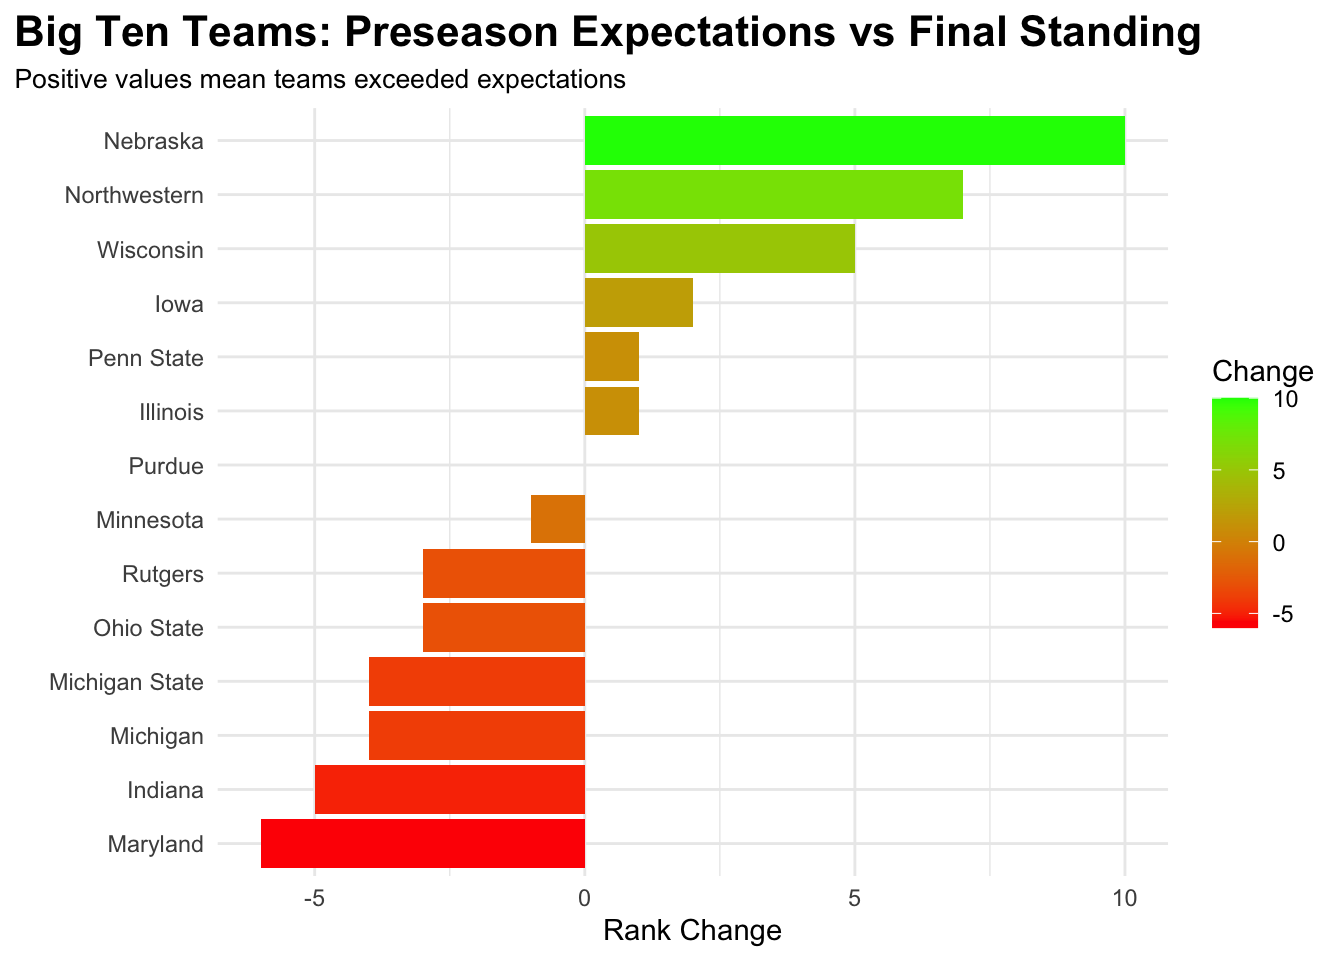
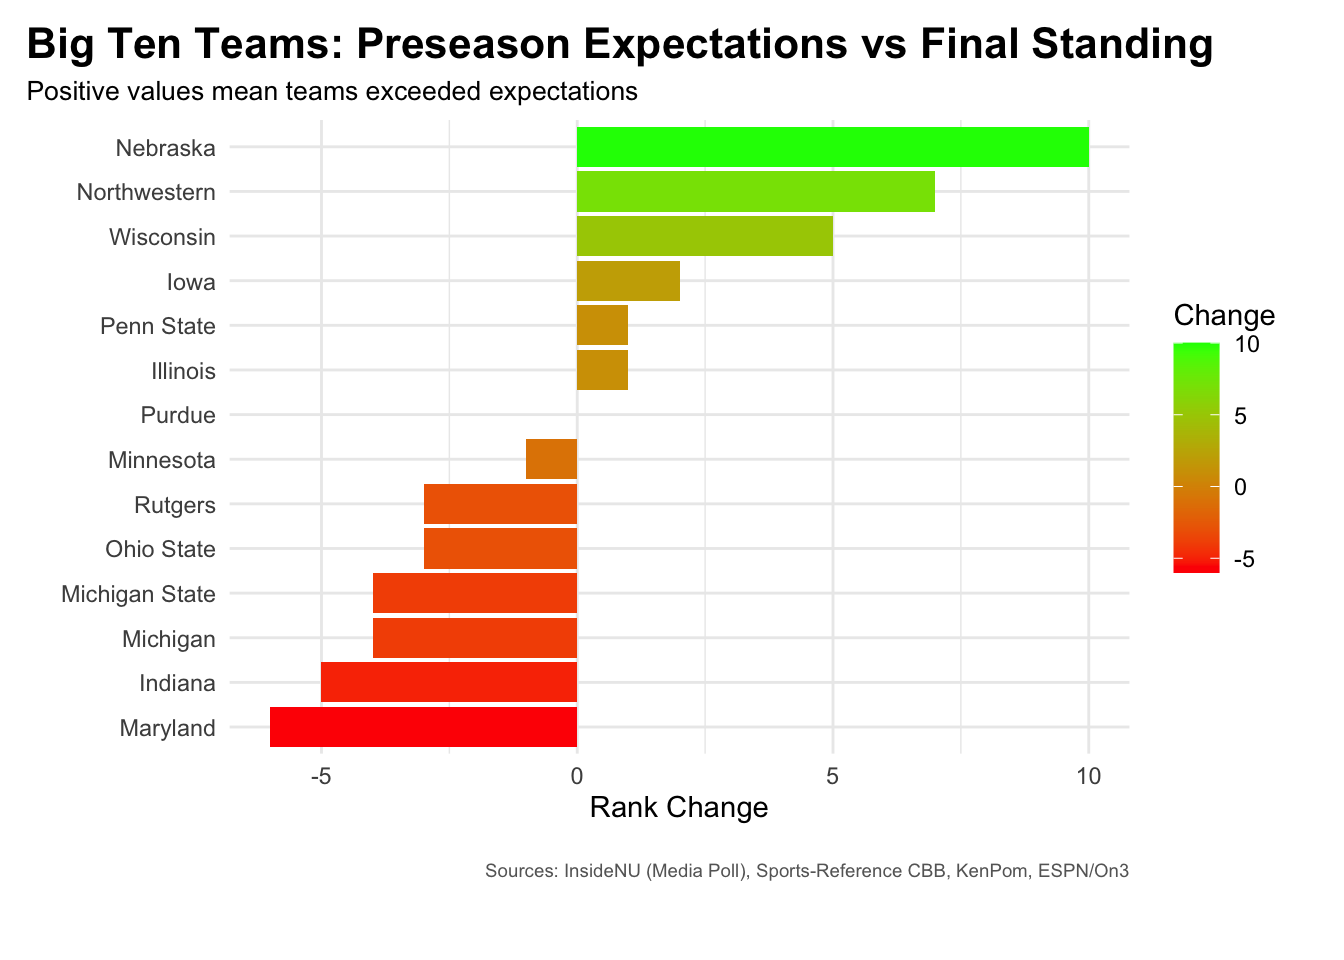
updated changes

Changed region(s): [[0.0, 0.0, 0.9688, 1.0], [0.0625, 0.875, 0.1562, 0.9062], [0.0938, 0.8125, 0.1562, 0.8438]]

diff --git a/posts/nebraska-mens-basketball-national-title/index.html b/posts/nebraska-mens-basketball-national-title/index.html
@@ -257,14 +257,22 @@ pre > code.sourceCode > span > a:first-child::before { text-decoration: underlin
 <span id="cb2-11"><a href="#cb2-11" aria-hidden="true" tabindex="-1"></a>    <span class="at">subtitle =</span> <span class="st">"Positive values mean teams exceeded expectations"</span>,</span>
 <span id="cb2-12"><a href="#cb2-12" aria-hidden="true" tabindex="-1"></a>    <span class="at">x =</span> <span class="st">""</span>,</span>
 <span id="cb2-13"><a href="#cb2-13" aria-hidden="true" tabindex="-1"></a>    <span class="at">y =</span> <span class="st">"Rank Change"</span>,</span>
-<span id="cb2-14"><a href="#cb2-14" aria-hidden="true" tabindex="-1"></a>    <span class="at">fill =</span> <span class="st">"Change"</span></span>
-<span id="cb2-15"><a href="#cb2-15" aria-hidden="true" tabindex="-1"></a>  ) <span class="sc">+</span></span>
-<span id="cb2-16"><a href="#cb2-16" aria-hidden="true" tabindex="-1"></a>  <span class="fu">theme_minimal</span>() <span class="sc">+</span></span>
-<span id="cb2-17"><a href="#cb2-17" aria-hidden="true" tabindex="-1"></a>  <span class="fu">theme</span>(</span>
-<span id="cb2-18"><a href="#cb2-18" aria-hidden="true" tabindex="-1"></a>    <span class="at">plot.title.position =</span> <span class="st">"plot"</span>,</span>
-<span id="cb2-19"><a href="#cb2-19" aria-hidden="true" tabindex="-1"></a>    <span class="at">plot.title =</span> <span class="fu">element_text</span>(<span class="at">face =</span> <span class="st">"bold"</span>, <span class="at">size =</span> <span class="dv">16</span>, <span class="at">hjust =</span> <span class="dv">0</span>),</span>
-<span id="cb2-20"><a href="#cb2-20" aria-hidden="true" tabindex="-1"></a>    <span class="at">plot.subtitle =</span> <span class="fu">element_text</span>(<span class="at">face =</span> <span class="st">"plain"</span>, <span class="at">size =</span> <span class="dv">10</span>, <span class="at">hjust =</span> <span class="dv">0</span>)</span>
-<span id="cb2-21"><a href="#cb2-21" aria-hidden="true" tabindex="-1"></a>  )</span></code></pre></div><button title="Copy to Clipboard" class="code-copy-button"><i class="bi"></i></button></div>
+<span id="cb2-14"><a href="#cb2-14" aria-hidden="true" tabindex="-1"></a>    <span class="at">fill =</span> <span class="st">"Change"</span>,</span>
+<span id="cb2-15"><a href="#cb2-15" aria-hidden="true" tabindex="-1"></a>    <span class="at">caption =</span> <span class="st">"Sources: InsideNU (Media Poll), Sports-Reference CBB, KenPom, ESPN/On3"</span></span>
+<span id="cb2-16"><a href="#cb2-16" aria-hidden="true" tabindex="-1"></a>  ) <span class="sc">+</span></span>
+<span id="cb2-17"><a href="#cb2-17" aria-hidden="true" tabindex="-1"></a>  <span class="fu">theme_minimal</span>() <span class="sc">+</span></span>
+<span id="cb2-18"><a href="#cb2-18" aria-hidden="true" tabindex="-1"></a>  <span class="fu">theme</span>(</span>
+<span id="cb2-19"><a href="#cb2-19" aria-hidden="true" tabindex="-1"></a>    <span class="at">plot.title.position =</span> <span class="st">"plot"</span>,</span>
+<span id="cb2-20"><a href="#cb2-20" aria-hidden="true" tabindex="-1"></a>    <span class="at">plot.title =</span> <span class="fu">element_text</span>(<span class="at">face =</span> <span class="st">"bold"</span>, <span class="at">size =</span> <span class="dv">16</span>, <span class="at">hjust =</span> <span class="dv">0</span>),</span>
+<span id="cb2-21"><a href="#cb2-21" aria-hidden="true" tabindex="-1"></a>    <span class="at">plot.subtitle =</span> <span class="fu">element_text</span>(<span class="at">size =</span> <span class="dv">10</span>, <span class="at">hjust =</span> <span class="dv">0</span>),</span>
+<span id="cb2-22"><a href="#cb2-22" aria-hidden="true" tabindex="-1"></a>    <span class="at">plot.caption =</span> <span class="fu">element_text</span>(</span>
+<span id="cb2-23"><a href="#cb2-23" aria-hidden="true" tabindex="-1"></a>      <span class="at">size =</span> <span class="dv">7</span>,</span>
+<span id="cb2-24"><a href="#cb2-24" aria-hidden="true" tabindex="-1"></a>      <span class="at">hjust =</span> <span class="dv">1</span>,</span>
+<span id="cb2-25"><a href="#cb2-25" aria-hidden="true" tabindex="-1"></a>      <span class="at">color =</span> <span class="st">"gray40"</span>,</span>
+<span id="cb2-26"><a href="#cb2-26" aria-hidden="true" tabindex="-1"></a>      <span class="at">margin =</span> <span class="fu">margin</span>(<span class="at">t =</span> <span class="dv">15</span>)</span>
+<span id="cb2-27"><a href="#cb2-27" aria-hidden="true" tabindex="-1"></a>    ),</span>
+<span id="cb2-28"><a href="#cb2-28" aria-hidden="true" tabindex="-1"></a>    <span class="at">plot.margin =</span> <span class="fu">margin</span>(<span class="dv">10</span>, <span class="dv">20</span>, <span class="dv">30</span>, <span class="dv">10</span>)</span>
+<span id="cb2-29"><a href="#cb2-29" aria-hidden="true" tabindex="-1"></a>  ) </span></code></pre></div><button title="Copy to Clipboard" class="code-copy-button"><i class="bi"></i></button></div>
 </details>
 <div class="cell-output-display">
 <div>
@@ -294,14 +302,21 @@ pre > code.sourceCode > span > a:first-child::before { text-decoration: underlin
 <span id="cb3-12"><a href="#cb3-12" aria-hidden="true" tabindex="-1"></a>    <span class="at">subtitle =</span> <span class="st">"Nebraska stands out compared to the rest of the conference"</span>,</span>
 <span id="cb3-13"><a href="#cb3-13" aria-hidden="true" tabindex="-1"></a>    <span class="at">x =</span> <span class="st">"Offensive Rating"</span>,</span>
 <span id="cb3-14"><a href="#cb3-14" aria-hidden="true" tabindex="-1"></a>    <span class="at">y =</span> <span class="st">"Win Percentage"</span>,</span>
-<span id="cb3-15"><a href="#cb3-15" aria-hidden="true" tabindex="-1"></a>    <span class="at">color =</span> <span class="st">"Nebraska?"</span></span>
-<span id="cb3-16"><a href="#cb3-16" aria-hidden="true" tabindex="-1"></a>  ) <span class="sc">+</span></span>
-<span id="cb3-17"><a href="#cb3-17" aria-hidden="true" tabindex="-1"></a>  <span class="fu">theme_minimal</span>() <span class="sc">+</span></span>
-<span id="cb3-18"><a href="#cb3-18" aria-hidden="true" tabindex="-1"></a>  <span class="fu">theme</span>(</span>
-<span id="cb3-19"><a href="#cb3-19" aria-hidden="true" tabindex="-1"></a>    <span class="at">plot.title.position =</span> <span class="st">"plot"</span>,   <span class="co"># valid</span></span>
-<span id="cb3-20"><a href="#cb3-20" aria-hidden="true" tabindex="-1"></a>    <span class="at">plot.title =</span> <span class="fu">element_text</span>(<span class="at">face =</span> <span class="st">"bold"</span>, <span class="at">size =</span> <span class="dv">16</span>, <span class="at">hjust =</span> <span class="dv">0</span>),</span>
-<span id="cb3-21"><a href="#cb3-21" aria-hidden="true" tabindex="-1"></a>    <span class="at">plot.subtitle =</span> <span class="fu">element_text</span>(<span class="at">face =</span> <span class="st">"plain"</span>, <span class="at">size =</span> <span class="dv">10</span>, <span class="at">hjust =</span> <span class="dv">0</span>)  <span class="co"># aligns subtitle left</span></span>
-<span id="cb3-22"><a href="#cb3-22" aria-hidden="true" tabindex="-1"></a>  ) </span></code></pre></div><button title="Copy to Clipboard" class="code-copy-button"><i class="bi"></i></button></div>
+<span id="cb3-15"><a href="#cb3-15" aria-hidden="true" tabindex="-1"></a>    <span class="at">color =</span> <span class="st">"Nebraska?"</span>,</span>
+<span id="cb3-16"><a href="#cb3-16" aria-hidden="true" tabindex="-1"></a>    <span class="at">caption =</span> <span class="st">"Sources: Sports-Reference CBB, KenPom, ESPN Team Pages"</span></span>
+<span id="cb3-17"><a href="#cb3-17" aria-hidden="true" tabindex="-1"></a>  ) <span class="sc">+</span></span>
+<span id="cb3-18"><a href="#cb3-18" aria-hidden="true" tabindex="-1"></a>  <span class="fu">theme_minimal</span>() <span class="sc">+</span></span>
+<span id="cb3-19"><a href="#cb3-19" aria-hidden="true" tabindex="-1"></a>  <span class="fu">theme</span>(</span>
+<span id="cb3-20"><a href="#cb3-20" aria-hidden="true" tabindex="-1"></a>    <span class="at">plot.title.position =</span> <span class="st">"plot"</span>,</span>
+<span id="cb3-21"><a href="#cb3-21" aria-hidden="true" tabindex="-1"></a>    <span class="at">plot.title =</span> <span class="fu">element_text</span>(<span class="at">face =</span> <span class="st">"bold"</span>, <span class="at">size =</span> <span class="dv">16</span>, <span class="at">hjust =</span> <span class="dv">0</span>),</span>
+<span id="cb3-22"><a href="#cb3-22" aria-hidden="true" tabindex="-1"></a>    <span class="at">plot.subtitle =</span> <span class="fu">element_text</span>(<span class="at">face =</span> <span class="st">"plain"</span>, <span class="at">size =</span> <span class="dv">10</span>, <span class="at">hjust =</span> <span class="dv">0</span>),</span>
+<span id="cb3-23"><a href="#cb3-23" aria-hidden="true" tabindex="-1"></a>    <span class="at">plot.caption =</span> <span class="fu">element_text</span>(</span>
+<span id="cb3-24"><a href="#cb3-24" aria-hidden="true" tabindex="-1"></a>      <span class="at">size =</span> <span class="dv">7</span>,</span>
+<span id="cb3-25"><a href="#cb3-25" aria-hidden="true" tabindex="-1"></a>      <span class="at">hjust =</span> <span class="dv">1</span>,</span>
+<span id="cb3-26"><a href="#cb3-26" aria-hidden="true" tabindex="-1"></a>      <span class="at">color =</span> <span class="st">"gray40"</span>,</span>
+<span id="cb3-27"><a href="#cb3-27" aria-hidden="true" tabindex="-1"></a>      <span class="at">margin =</span> <span class="fu">margin</span>(<span class="at">t =</span> <span class="dv">15</span>)   <span class="co"># LOWER CAPTION BY 15</span></span>
+<span id="cb3-28"><a href="#cb3-28" aria-hidden="true" tabindex="-1"></a>    )</span>
+<span id="cb3-29"><a href="#cb3-29" aria-hidden="true" tabindex="-1"></a>  ) </span></code></pre></div><button title="Copy to Clipboard" class="code-copy-button"><i class="bi"></i></button></div>
 </details>
 <div class="cell-output-display">
 <div>
@@ -333,14 +348,21 @@ pre > code.sourceCode > span > a:first-child::before { text-decoration: underlin
 <span id="cb4-14"><a href="#cb4-14" aria-hidden="true" tabindex="-1"></a>    <span class="at">x =</span> <span class="st">"Offensive Rating"</span>,</span>
 <span id="cb4-15"><a href="#cb4-15" aria-hidden="true" tabindex="-1"></a>    <span class="at">y =</span> <span class="st">"Defensive Rating"</span>,</span>
 <span id="cb4-16"><a href="#cb4-16" aria-hidden="true" tabindex="-1"></a>    <span class="at">size =</span> <span class="st">"Performance Gap"</span>,</span>
-<span id="cb4-17"><a href="#cb4-17" aria-hidden="true" tabindex="-1"></a>    <span class="at">color =</span> <span class="st">"Gap Value"</span></span>
-<span id="cb4-18"><a href="#cb4-18" aria-hidden="true" tabindex="-1"></a>  ) <span class="sc">+</span></span>
-<span id="cb4-19"><a href="#cb4-19" aria-hidden="true" tabindex="-1"></a>  <span class="fu">theme_minimal</span>() <span class="sc">+</span></span>
-<span id="cb4-20"><a href="#cb4-20" aria-hidden="true" tabindex="-1"></a>  <span class="fu">theme</span>(</span>
-<span id="cb4-21"><a href="#cb4-21" aria-hidden="true" tabindex="-1"></a>    <span class="at">plot.title.position =</span> <span class="st">"plot"</span>,</span>
-<span id="cb4-22"><a href="#cb4-22" aria-hidden="true" tabindex="-1"></a>    <span class="at">plot.title =</span> <span class="fu">element_text</span>(<span class="at">face =</span> <span class="st">"bold"</span>, <span class="at">size =</span> <span class="dv">16</span>, <span class="at">hjust =</span> <span class="dv">0</span>),</span>
-<span id="cb4-23"><a href="#cb4-23" aria-hidden="true" tabindex="-1"></a>    <span class="at">plot.subtitle =</span> <span class="fu">element_text</span>(<span class="at">face =</span> <span class="st">"plain"</span>, <span class="at">size =</span> <span class="dv">10</span>, <span class="at">hjust =</span> <span class="dv">0</span>)</span>
-<span id="cb4-24"><a href="#cb4-24" aria-hidden="true" tabindex="-1"></a>  )</span></code></pre></div><button title="Copy to Clipboard" class="code-copy-button"><i class="bi"></i></button></div>
+<span id="cb4-17"><a href="#cb4-17" aria-hidden="true" tabindex="-1"></a>    <span class="at">color =</span> <span class="st">"Gap Value"</span>,</span>
+<span id="cb4-18"><a href="#cb4-18" aria-hidden="true" tabindex="-1"></a>    <span class="at">caption =</span> <span class="st">"Sources: Big Ten Media Poll (InsideNU), Sports-Reference CBB, KenPom, ESPN/On3"</span></span>
+<span id="cb4-19"><a href="#cb4-19" aria-hidden="true" tabindex="-1"></a>  ) <span class="sc">+</span></span>
+<span id="cb4-20"><a href="#cb4-20" aria-hidden="true" tabindex="-1"></a>  <span class="fu">theme_minimal</span>() <span class="sc">+</span></span>
+<span id="cb4-21"><a href="#cb4-21" aria-hidden="true" tabindex="-1"></a>  <span class="fu">theme</span>(</span>
+<span id="cb4-22"><a href="#cb4-22" aria-hidden="true" tabindex="-1"></a>    <span class="at">plot.title.position =</span> <span class="st">"plot"</span>,</span>
+<span id="cb4-23"><a href="#cb4-23" aria-hidden="true" tabindex="-1"></a>    <span class="at">plot.title =</span> <span class="fu">element_text</span>(<span class="at">face =</span> <span class="st">"bold"</span>, <span class="at">size =</span> <span class="dv">16</span>, <span class="at">hjust =</span> <span class="dv">0</span>),</span>
+<span id="cb4-24"><a href="#cb4-24" aria-hidden="true" tabindex="-1"></a>    <span class="at">plot.subtitle =</span> <span class="fu">element_text</span>(<span class="at">face =</span> <span class="st">"plain"</span>, <span class="at">size =</span> <span class="dv">10</span>, <span class="at">hjust =</span> <span class="dv">0</span>),</span>
+<span id="cb4-25"><a href="#cb4-25" aria-hidden="true" tabindex="-1"></a>    <span class="at">plot.caption =</span> <span class="fu">element_text</span>(</span>
+<span id="cb4-26"><a href="#cb4-26" aria-hidden="true" tabindex="-1"></a>      <span class="at">size =</span> <span class="dv">7</span>,</span>
+<span id="cb4-27"><a href="#cb4-27" aria-hidden="true" tabindex="-1"></a>      <span class="at">hjust =</span> <span class="dv">1</span>,</span>
+<span id="cb4-28"><a href="#cb4-28" aria-hidden="true" tabindex="-1"></a>      <span class="at">color =</span> <span class="st">"gray40"</span>,</span>
+<span id="cb4-29"><a href="#cb4-29" aria-hidden="true" tabindex="-1"></a>      <span class="at">margin =</span> <span class="fu">margin</span>(<span class="at">t =</span> <span class="dv">15</span>)   <span class="co"># lowers the caption</span></span>
+<span id="cb4-30"><a href="#cb4-30" aria-hidden="true" tabindex="-1"></a>    )</span>
+<span id="cb4-31"><a href="#cb4-31" aria-hidden="true" tabindex="-1"></a>  )</span></code></pre></div><button title="Copy to Clipboard" class="code-copy-button"><i class="bi"></i></button></div>
 </details>
 <div class="cell-output-display">
 <div>
@@ -351,7 +373,8 @@ pre > code.sourceCode > span > a:first-child::before { text-decoration: underlin
 </div>
 <details class="code-fold">
 <summary>Code</summary>
-<div class="code-copy-outer-scaffold"><div class="sourceCode cell-code" id="cb5"><pre class="sourceCode r code-with-copy"><code class="sourceCode r"><span id="cb5-1"><a href="#cb5-1" aria-hidden="true" tabindex="-1"></a><span class="fu">write_csv</span>(combined, <span class="st">"big_ten_basketball_data.csv"</span>) </span></code></pre></div><button title="Copy to Clipboard" class="code-copy-button"><i class="bi"></i></button></div>
+<div class="code-copy-outer-scaffold"><div class="sourceCode cell-code" id="cb5"><pre class="sourceCode r code-with-copy"><code class="sourceCode r"><span id="cb5-1"><a href="#cb5-1" aria-hidden="true" tabindex="-1"></a><span class="co"># export data</span></span>
+<span id="cb5-2"><a href="#cb5-2" aria-hidden="true" tabindex="-1"></a><span class="fu">write_csv</span>(combined, <span class="st">"big_ten_basketball_data.csv"</span>)  </span></code></pre></div><button title="Copy to Clipboard" class="code-copy-button"><i class="bi"></i></button></div>
 </details>
 </div>
 <p>This final chart ties it all together by comparing offense, defense, and expectations.</p>

diff --git a/index.html b/index.html
@@ -228,7 +228,7 @@ window.Quarto = {
 </a>
 </div>
 </div>
-<div class="quarto-post image-right" data-index="1" data-listing-date-sort="1777870800000" data-listing-file-modified-sort="1763425645342" data-listing-date-modified-sort="NaN" data-listing-reading-time-sort="6" data-listing-word-count-sort="1048">
+<div class="quarto-post image-right" data-index="1" data-listing-date-sort="1777870800000" data-listing-file-modified-sort="1763428344414" data-listing-date-modified-sort="NaN" data-listing-reading-time-sort="7" data-listing-word-count-sort="1234">
 <div class="thumbnail"><a href="./posts/nebraska-mens-basketball-national-title/index.html" class="no-external">
 
 <img loading="lazy" src="./posts/nebraska-mens-basketball-national-title/image.png" class="thumbnail-image">
